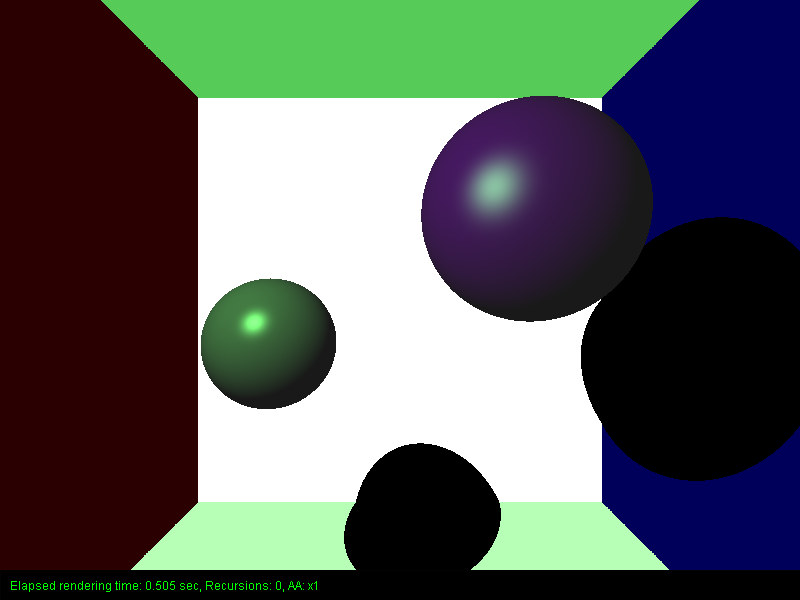
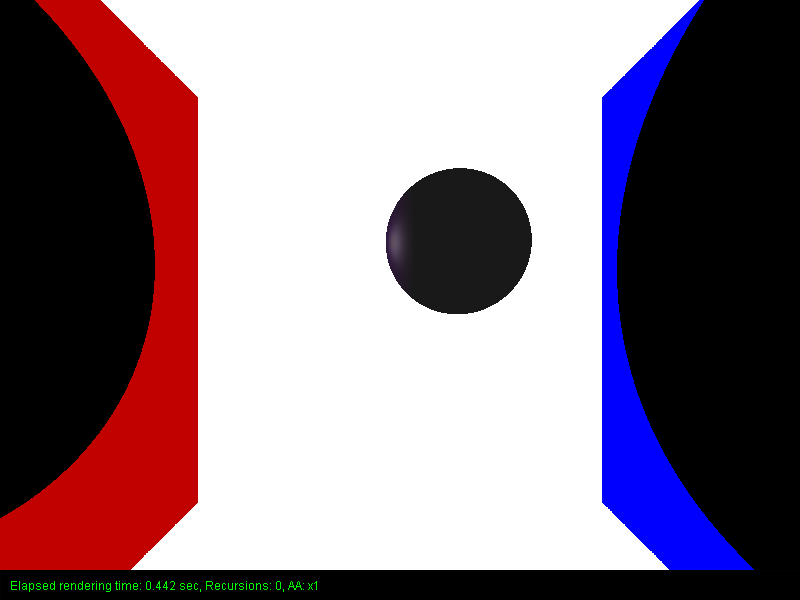
testing with no progress :/

diff --git a/VCG_Raytracer/src/raytracer/Raytracer.java b/VCG_Raytracer/src/raytracer/Raytracer.java
@@ -90,7 +90,7 @@ public class Raytracer {
         //circle_radius1();
         //a3_Beleuchtung();
         a3ScenePrep();
-        setupCornellBox();
+        //setupCornellBox();
         a3versionTeamPurple();
         System.out.println(mScene.getShapes().size());
 
@@ -151,16 +151,16 @@ public class Raytracer {
 
 
         //create spheres
-        mScene.createSphere(new Vec3(1.5f,1,0), 1.25f, mat_phong);
-        mScene.createSphere(new Vec3(-1.5f,-0.5f,0), 0.75f, mat_phong2);
+        //mScene.createSphere(new Vec3(1.5f,1,0), 1.25f, mat_phong);
+        //mScene.createSphere(new Vec3(-1.5f,-0.5f,0), 0.75f, mat_phong2);
 
 
-        //mScene.createSphere(new Vec3(1f,1,-2.5f), 1.25f, mat_phong); // -> testing shadow 25
+        mScene.createSphere(new Vec3(1f,1,-2.5f), 1.25f, mat_phong); // -> testing shadow 25
         //mScene.createSphere(new Vec3(-2f,1f,-2.5f), 0.75f, mat_phong2);
 
         //create lights
-        //mScene.createPointLight(new Vec3(-4,1,-0f), RgbColor.WHITE); //->testing shadow 25
-        mScene.createPointLight(new Vec3 (-2.5f,2.5f,4), new RgbColor(0.3f,0.7f,0.3f));
+        mScene.createPointLight(new Vec3(-1,1,-2.5f), RgbColor.WHITE); //->testing shadow 25 //
+        //mScene.createPointLight(new Vec3 (-2.5f,2.5f,4), new RgbColor(0.3f,0.7f,0.3f));
         //mScene.createPointLight(new Vec3 (2.5f,2.5f,4), new RgbColor(0.7f,0.3f,0.3f));
         //mScene.createPointLight(new Vec3(0, -2.5f, 4), new RgbColor(0.3f,0.3f,0.7f));
         mScene.setAmbientFactor(new RgbColor(0.1f,0.1f,0.1f));

diff --git a/VCG_Raytracer/src/Main.java b/VCG_Raytracer/src/Main.java
@@ -26,6 +26,8 @@
 import raytracer.Raytracer;
 import ui.Window;
 import scene.Scene;
+import scene.material.Lambert;
+import scene.material.Material;
 import utils.RgbColor;
 import utils.algebra.Vec3;
 
@@ -130,6 +132,22 @@ public class Main {
     }
 
     private static void setupCornellBox(Scene renderScene) {
+        //create 5 plane's that are perpendicular(senkrecht) zu einander
+        //4:3 as Width:Height relation
+        //all plane's should have Lambert material
+        //all walls should be white 
+            //except for left(red) and right(blue)
+        //there should be a pointlight at the top the box
+            //there should be a square to make symbolise the lightsource position
+        Material mat_lambert2 = new Lambert(RgbColor.WHITE);
+        //left
+        renderScene.createPlane(new Vec3(-5,0,0), new Vec3(1f,0f,0f), new Lambert(RgbColor.RED));
+        //right
+        renderScene.createPlane(new Vec3(5,0,0), new Vec3(-1f,0f,0f), new Lambert(RgbColor.BLUE));
+        //bot, top, back
+        renderScene.createPlane(new Vec3(0,-5,0), new Vec3(0f,1f,0f), new Lambert(RgbColor.WHITE));
+        renderScene.createPlane(new Vec3(0,5,0), new Vec3(0f,-1f,0f), new Lambert(RgbColor.WHITE));
+        renderScene.createPlane(new Vec3(0,0,-5), new Vec3(0f,0f,1f), new Lambert(RgbColor.WHITE)); 
     }
 
     /** Create our personal renderer and give it all of our items and prefs to calculate our scene **/

diff --git a/VCG_Raytracer/src/scene/Scene.java b/VCG_Raytracer/src/scene/Scene.java
@@ -118,13 +118,17 @@ public class Scene {
             Ray secondaryRay = new Ray(_intersection.getIntersectionPoint(), currentLight.getPosition().sub(_intersection.getIntersectionPoint()));
             Shape hitObjectShape = _intersection.getShape();
             boolean objectInTheWay = false; //boolean to keep track of if any object is blocking direct LOS from impact to light
+            int i =0;
 
             for (Shape currentShape : shapeList) { //go through all shapes
+                i++;
                 if(currentShape != hitObjectShape){//except the one that our ray is starting from -> da kann man es abhängig von normale machen
                     Intersection secondaryRayData = currentShape.intersect(secondaryRay);
                     if(secondaryRayData.isHit() && secondaryRayData.getDistance() < currentLight.getPosition().sub(_intersection.getIntersectionPoint()).length()){ //need to additionally check that the distance is shorter to make sure the hit is between out initial hit and the light and not beyond
-                        objectInTheWay = true;
-                        break;
+                        if(i % 2== 0){
+                            objectInTheWay = true;
+                            break;
+                        }
                     }
                 }
             }

diff --git a/VCG_Raytracer/src/scene/shape/Plane.java b/VCG_Raytracer/src/scene/shape/Plane.java
@@ -67,6 +67,7 @@ public class Plane extends Shape {
         //also nur den check < 0 bereich zu betrachten da wir in der cornellbox ja strahlen innerhalb der box behalten wollen und keine von draußen rein kommen sollen?
         //i think that would make sense and make things less complicated
         intersection.setShape(this);
+        intersection.setNearestT(t);
         intersection.setNormal(normal);
         intersection.setDistance(ray.calculateRayAt(t).length());
         intersection.setInRay(ray.calculateRayAt(t));

diff --git a/VCG_Raytracer/src/scene/shape/Sphere.java b/VCG_Raytracer/src/scene/shape/Sphere.java
@@ -107,6 +107,7 @@ public class Sphere extends Shape{
         intersection.setNormal(myTransformationMatrix.multVec3(intersection.getIntersectionPoint().sub(position).normalize(), false)); // TransformationMatrix * Vector between intersection and sphere center = normal
         intersection.setShape(this); // for material
         intersection.setInRay(transformedRay.calculateRayAt(t));  // primary Ray
+        intersection.setNearestT(t);
 
         return intersection;
     }

diff --git a/VCG_Raytracer/src/scene/shape/Intersection.java b/VCG_Raytracer/src/scene/shape/Intersection.java
@@ -12,7 +12,14 @@ public class Intersection { //for now ive just added basic setters and getters f
     private Shape shape;
     private float distance;
     private boolean hit;
+    private float nearestT;
 
+    public float getNearestT() {
+        return nearestT;
+    }
+    public void setNearestT(float nearestT) {
+        this.nearestT = nearestT;
+    }
     public Vec3 getIntersectionPoint() {
         return intersectionPoint;
     }
